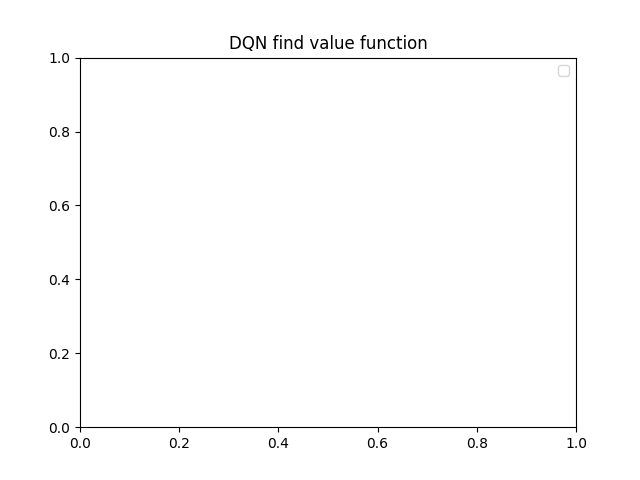
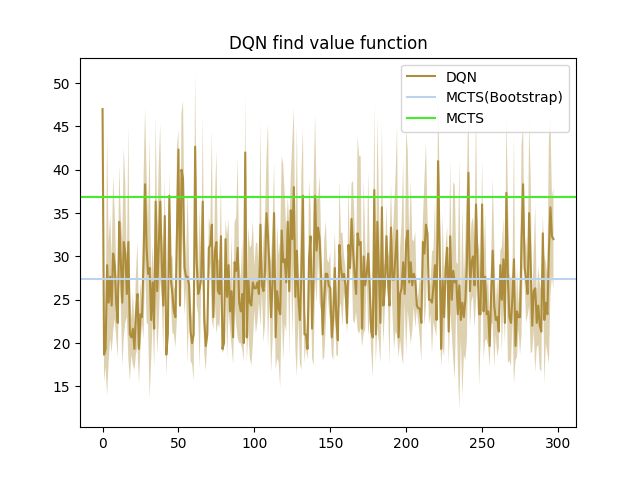
DQNMCTS Bootstrap - Pretrained DQN - 64x64

diff --git a/Analyze2.py b/Analyze2.py
@@ -137,37 +137,37 @@ def plot_alternate_agents_single_episode(steps_run_list, label_name1, label_name
         axs.axhline(mean_agent2_steps_run_list[stepsize_index], color=generate_hex_color(), label=label_name2)
 
 if __name__ == "__main__":
-    # fig, axs = plt.subplots(1, 1, constrained_layout=False)
+    fig, axs = plt.subplots(1, 1, constrained_layout=False)
 
-    # file_name = 'Results/DQNMCTS_Rollout.p'
-    # with open(file_name, "rb") as f:
-    #     res = pickle.load(f)
-    # print(res['num_steps'])
-    # steps_run_list = res['num_steps']
-    # label_name1 = 'DQN'
-    # label_name2 = 'MCTS(Rollout)'
-    # plot_alternate_agents_single_episode(steps_run_list, label_name1, label_name2, axs)
-    #
-    # file_name = 'Results/MCTS_ParameterStudy.p'
-    # with open(file_name, "rb") as f:
-    #     res = pickle.load(f)
-    # print(res['num_steps'])
-    # steps_run_list = res['num_steps']
-    # label_name = 'MCTS'
-    # plot_simple_agent_single_episode(steps_run_list, label_name, axs)
-
-
-    file_name = 'Results/DQNVF/VF 64-64/DQNVF.p'
+    file_name = 'Results/DQNMCTS_Bootstrap_PretrainedDQN_64x64_vf_49.p'
     with open(file_name, "rb") as f:
         res = pickle.load(f)
-    print(res['num_steps'].shape)
+    print(res['num_steps'])
     steps_run_list = res['num_steps']
-    label_name = 'DQN'
+    label_name1 = 'DQN'
+    label_name2 = 'MCTS(Bootstrap)'
+    plot_alternate_agents_single_episode(steps_run_list, label_name1, label_name2, axs)
 
-    plot_simple_agent_each_run(steps_run_list, label_name)
+    file_name = 'Results/MCTS_ParameterStudy.p'
+    with open(file_name, "rb") as f:
+        res = pickle.load(f)
+    print(res['num_steps'])
+    steps_run_list = res['num_steps']
+    label_name = 'MCTS'
+    plot_simple_agent_single_episode(steps_run_list, label_name, axs)
 
 
-    # axs.title.set_text("DQN find value function")
-    # axs.legend()
-    # fig.savefig("Results/DQNVF/VF 8-8/DQNVF.png")
-    # fig.show()
+    # file_name = 'Results/DQNVF/VF 64-64/DQNVF.p'
+    # with open(file_name, "rb") as f:
+    #     res = pickle.load(f)
+    # print(res['num_steps'].shape)
+    # steps_run_list = res['num_steps']
+    # label_name = 'DQN'
+    #
+    # plot_simple_agent_each_run(steps_run_list, label_name)
+
+
+    axs.title.set_text("DQN find value function")
+    axs.legend()
+    fig.savefig("Results/DQNVF/VF 8-8/DQNVF.png")
+    fig.show()

diff --git a/Main.py b/Main.py
@@ -88,6 +88,6 @@ if __name__ == '__main__':
                                         obj = ExperimentObject(agent_class, params)
                                         experiment_object_list.append(obj)
     # x = time.time()
-    detail = "Env = 4room - 4x4; with pre-trained DQN (64x64): dqn_vf_49.p"
-    experiment.run_experiment(experiment_object_list, result_file_name="DQNMCTS_Bootstrap_PretrainedDQN_64x64_vf_49.p", detail=detail)
+    detail = "Env = 4room - 4x4; with pre-trained DQN (64x64): dqn_vf_3.p"
+    experiment.run_experiment(experiment_object_list, result_file_name="DQNMCTS_Bootstrap_PretrainedDQN_64x64_vf_3.p", detail=detail)
     # print(time.time() - x)

diff --git a/Agents/BaseDynaAgent.py b/Agents/BaseDynaAgent.py
@@ -190,7 +190,7 @@ class BaseDynaAgent(BaseAgent):
                                                    self._vf['q']['layers_type'],
                                                    self._vf['q']['layers_features'],
                                                    self._vf['q']['action_layer_num']).to(self.device)
-        self.loadValueFunction("Results/DQNVF/VF 64-64/dqn_vf_49.p")
+        self.loadValueFunction("Results/DQNVF/VF 64-64/dqn_vf_3.p")
         self.optimizer = optim.Adam(self._vf['q']['network'].parameters(), lr=self._vf['q']['step_size'])
 
     def init_s_value_function_network(self, state):

diff --git a/Config.py b/Config.py
@@ -1,10 +1,10 @@
 # # experiment
-num_runs = 3
-num_episode = 302
+num_runs = 1
+num_episode = 4
 max_step_each_episode = 50
 
 episodes_only_dqn = 2
-episodes_only_mcts = 300
+episodes_only_mcts = 4
 
 
 num_thread = 2
